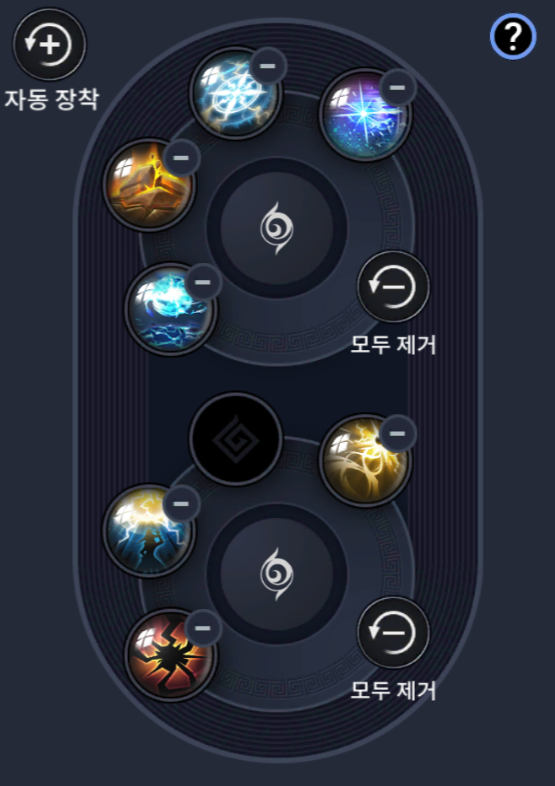
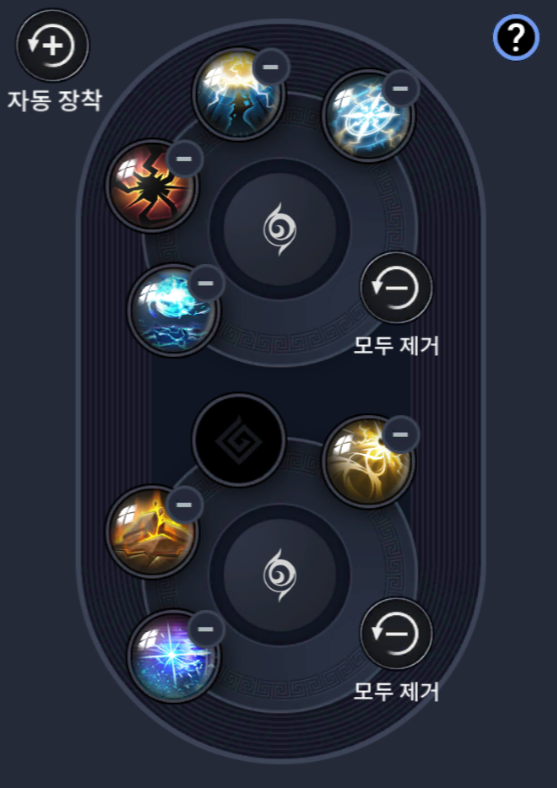
2

diff --git a/index.html b/index.html
@@ -20,35 +20,40 @@
                 <div class="skill_img_template">
                     <img class="auto_skill" src="auto_skill.png" />
                 </div>
+                <div class="name">전류파동</div>
+                <div class="name">흐름 : OFF</div>
             </div>
 
             <div class="box">
-                <div class="name">자동사냥,토벌</div>
-                <div class="name">(넓은지역,나메)</div>
+                <div class="name">자동사냥</div>
+                <div class="name">(나메,연회장)</div>
                 <div class="skill_img_template">
                     <img class="auto_skill" src="auto_skill2.png" />
                 </div>
+                <div class="name">전류파동</div>
+                <div class="name">흐름 : OFF</div>
             </div>
 
             <div class="box">
                 <div class="name">pvp</div>
                 <div class="name">(태전)</div>
                 <div class="skill_img_template">
-                    <img class="auto_skill" src="auto_skill_1.png" />
+                    <img class="auto_skill" src="auto_skill_pvp.png" />
                 </div>
             </div>
 
             <div class="box">
                 <div class="name">pvp</div>
-                <div class="name">(필드,투기장)</div>
+                <div class="name">(검태,필드,투기장)</div>
                 <div class="skill_img_template">
-                    <img class="auto_skill" src="auto_skill_pvp.png" />
+                    <img class="auto_skill" src="auto_skill_1.png" />
                 </div>
             </div>
+
             
             <div class="box_line">
                 <div class="name">계열</div>
-                <div class="name">(라브 > 아알 > 아히브)</div>
+                <div class="name">(라브 = 아알 > 아히브)</div>
                 <div class="skill_img_template">
                     <img class="auto_skill" src="auto_skill_line.png" />
                 </div>
@@ -56,7 +61,7 @@
             
         </div>
       
-        <div class="name">출처 - <a href="https://www.youtube.com/channel/UCwufBzs0EL9xLoGRg9eT4DA"> YouTube 검은사막스텝 [채널로 이동]</a></div>
+        <div class="name">출처 - <a href="https://www.youtube.com/watch?v=Oln2KiSU3Xg"> YouTube 검은사막스텝 [채널로 이동]</a></div>
         <div class="name">정보 제공 - 가문명 : 프리디히 / 서버 : 카란다</div>
     </div>
 </body>
